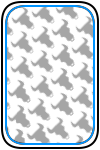
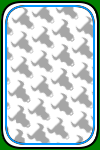
greenbg, game objects etc

diff --git a/server.py b/server.py
@@ -2,10 +2,63 @@ import socket
 import threading
 import time
 from card_calc import *
+import random
+
+
+class Card():
+  def __init__(self, card):
+    self.card = card
+    self.value = cardValue(card)
+
+
+class Game():
+  def __init__(self):
+    self.hasStarted = False
+    self.players = []
+    self.cards = []
+    self.stacks = {0:[],1:[],2:[],3:[]}
+  
+  def start(self):
+    if len(self.players) <= 1:
+      print("You can't play alone!")
+      return
+    print("Starting Game with %i players." % len(self.players))
+    print("Shuffeling deck.")
+    deck = []
+    for card in range(0,104):
+      deck.append(Card(card+1))
+    while len(deck) > 0:
+      index = random.randint(1000,9999) % len(deck)
+      self.cards.append(deck[index])
+      del deck[index]
+    print("Giving cards to players.")
+    for p in self.players:
+      for i in range(10):
+        p.hand.append(self.cards.pop())
+    print("Creating stacks.")
+    for s in self.stacks.keys():
+      self.stacks[s].append(self.cards.pop())
+      self.stacks[s].append(self.cards.pop())
+    self.hasStarted = False
+
+
+class Player():
+  def __init__(self, sock, addr):
+    self.sock = sock
+    self.hand = []
+    self.choosen = -1
+
+
+def CardPosMsg(card, x, y, f):
+  cf = "1"
+  if not f: cf = "0"
+  s = "c%03i%03i%03i%c" % (card, x, y, cf)
+  return s
 
 
 class ThreadedServer(object):
   def __init__(self, host, port):
+    self.running = True
     self.host = host
     self.port = port
     self.sock = socket.socket(socket.AF_INET, socket.SOCK_STREAM)
@@ -15,26 +68,38 @@ class ThreadedServer(object):
   def listen(self):
     print("Listening to port:%i" % self.port)
     self.sock.listen(5)
-    while True:
+    while self.running:
       client, address = self.sock.accept()
       client.settimeout(60)
       threading.Thread(target = self.listenToClient,args = (client,address)).start()
 
+  def stop(self):
+    self.running = False
+    socket.socket(socket.AF_INET, 
+                  socket.SOCK_STREAM).connect( (self.host, self.port))
+    self.sock.close()
+
   def listenToClient(self, client, address):
-    print("New client %s" % str(address))
-    size = 1024
-    while True:
-      #try:
-      print("sending")
-      client.send("c0050100101".encode())
-      time.sleep(2)
-      client.send("c0051100100".encode())
-      time.sleep(2)
-      client.send("c0051101101".encode())
-      time.sleep(2)
-      client.send("c0050101100".encode())
-      print("sended")
-      time.sleep(2)
+    global game
+    if game == None:
+      print("No game!")
+      client.close()
+      return
+    print("New Player %s joined." % str(address))
+    player = Player(client, address)
+    game.players.append(player)
+    while self.running:
+      time.sleep(0.2)
+      if game.hasStarted:
+        print("I'm in: %s" & str(address))
+        for s in self.game.stacks.keys():
+          for i in range(len(g.stacks[s])):
+            x = (s * 130) + 265
+            y = 130 + (i * 10)
+            msg = CardPosMsg(g.stacks[s][i].card,x,y,True).encode()
+            client.send(msg)
+      else:
+        client.send("w0000000000".encode())
       #data = client.recv(size)
       #if data:
       #  # Set the response to echo back the recieved data
@@ -47,12 +112,29 @@ class ThreadedServer(object):
       #  print("failed")
       #  client.close()
       #  return False
+    client.close()
+
+game = None
+server = None
+def serverWork(port):
+  global server
+  server = ThreadedServer('',port)
+  server.listen()  
 
 
 def main(argv):
+  global server, game
+  game = Game()
   port_num = 8080
-  server = ThreadedServer('',port_num)
-  server.listen()
+  threading.Thread(target = serverWork, args = (port_num,)).start()
+  command = None
+  while command != "exit":
+    command = input("->").lower()
+    if command == "exit":
+      print("Bye Bye")
+    if command == "start":
+      game.start()
+  server.stop()
 
 
 if __name__=="__main__":

diff --git a/controls.py b/controls.py
@@ -4,7 +4,6 @@ from card_calc import *
 from tkinter import *
 
 FONT = ("Arial",25)
-BUF_SIZE = 1024
 card_bg = None
 card_img = None
 
@@ -26,7 +25,7 @@ class Card():
     self.card = card
     self.value = cardValue(card)
     self.img = card_img[self.value]
-    self.btn = Button(parent, image=card_bg, text=str(self.card)+"\n\n", width=100, height=150, command=self.click, compound=CENTER, borderwidth=0, font=FONT, highlightbackground="white", highlightcolor="white")          
+    self.btn = Button(parent, image=card_bg, text=str(self.card)+"\n\n", width=100, height=150, command=self.click, compound=CENTER, borderwidth=0, font=FONT, highlightbackground="#007F00", highlightcolor="#007F00")          
     self.clickHandler = []
   
   def flippDown(self):
@@ -59,17 +58,23 @@ class PlayFrame():
   def __init__(self, parent, sock):
     self.sock = sock
     #height calculation: 80 + 20 + 30 + 40 + 150 + 30 + 150 = 500
-    self.frame = Frame(parent, width=1000, height=500, bg="white")
+    self.frame = Frame(parent, width=1000, height=500, bg="#007F00")
+    self.infoLab = Label(self.frame, text="waiting ...", font=FONT, bg="#007F00", fg="white")
+    self.infoLab.place(x=265, y=100, height=30, width=490)
     self.cards = {}
+    self.lastMsg = None
         
   def update(self):
     #try:
-    print("waiting")
+    #print("waiting")
     r,w,e = select.select([self.sock],[],[],0.1)
     if r:
-      data = self.sock.recv(BUF_SIZE)
+      data = self.sock.recv(11)#BUF_SIZE)
       print(data.decode())
       msg = data.decode()
+      if self.lastMsg == msg:
+        return
+      self.lastMsg = msg
       if msg[0] == 'c':
         c = int(msg[1:4])
         x = int(msg[4:7])
@@ -78,6 +83,8 @@ class PlayFrame():
         if not c in self.cards:
           self.cards[c] = Card(self.frame, c)
         self.cards[c].place(x, y, f)
+      elif msg[0] == "w":
+        self.infoLab.configure(text="waiting ...")
     #except:
     #  pass
   

diff --git a/client.py b/client.py
@@ -13,7 +13,7 @@ class MainWin:
     self.root = Tk()
     self.root.title("Horn Ochsen")
     self.root.geometry("1000x500")
-    self.frame = Frame(self.root)
+    self.frame = Frame(self.root, bg='black')
     #self.tbtn = Card(self.frame, 4, 1)
     #self.tbtn.place(10,10,100,150)
     self.startFrame = StartFrame(self.frame, self.socketAction)

diff --git a/card_calc.py b/card_calc.py
@@ -1,3 +1,5 @@
+BUF_SIZE = 1024
+
 def cardValue(card):
   sum = 1
   if (card % 5) == 0:
